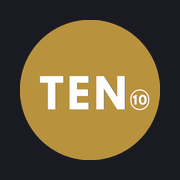
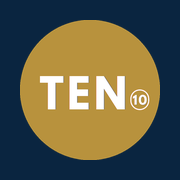
Reskin card to match tenconsultant.com brand (navy + champagne gold + ivory)
Aligns the digital card with the live website's brand system (方案 B):
- Palette: navy #0A2540 / champagne gold #D4AF37 / ivory #FAF8F3
- Fonts: Playfair Display (display) + Inter + Noto Serif TC
- Name now navy Playfair serif; role in gold
- Hero base + PWA icon background → navy
- Golden wave → champagne gold
- CTA → navy (was grey)
- Tagline → "Guarding Wealth. Nurturing Legacy." / 守護財富 · 傳承親情
- theme-color + manifest → navy

diff --git a/index.html b/index.html
@@ -7,7 +7,7 @@
 <meta name="description" content="Wealth Advisor · Legacy Planning · Insurance · Kuching, Sarawak">
 <!-- PWA -->
 <link rel="manifest" href="manifest.json">
-<meta name="theme-color" content="#1A1A22">
+<meta name="theme-color" content="#0A2540">
 <meta name="mobile-web-app-capable" content="yes">
 <!-- iOS -->
 <meta name="apple-mobile-web-app-capable" content="yes">
@@ -22,31 +22,37 @@
 <meta property="og:type" content="profile">
 <link rel="preconnect" href="https://fonts.googleapis.com">
 <link rel="preconnect" href="https://fonts.gstatic.com" crossorigin>
-<link href="https://fonts.googleapis.com/css2?family=Noto+Sans+TC:wght@300;400;500;600;700&family=Inter:wght@300;400;500;600;700&family=Cormorant+Garamond:wght@400;500;600;700&display=swap" rel="stylesheet">
+<link href="https://fonts.googleapis.com/css2?family=Noto+Serif+TC:wght@400;500;600;700;900&family=Inter:wght@300;400;500;600;700;800&family=Playfair+Display:wght@400;500;600;700;800;900&display=swap" rel="stylesheet">
 <style>
   * { margin: 0; padding: 0; box-sizing: border-box; -webkit-font-smoothing: antialiased; }
 
   :root {
-    --gold: #A88B3A;
-    --gold-dark: #8B7128;
-    --gold-light: #C9A84C;
-    --gold-soft: #F5F1E8;
-    --gold-paper: #FAF7EF;
+    /* 對齊 tenconsultant.com 官網品牌色板（方案 B）*/
+    --gold: #D4AF37;           /* 香檳金 */
+    --gold-dark: #A8862B;
+    --gold-light: #F0D57F;
+    --gold-soft: #F7EFD6;      /* 柔金 tint */
+    --gold-paper: #FBF5E4;     /* 金調紙 */
+    --navy: #0A2540;           /* 深藍主色 */
+    --navy-light: #1A3A5C;
+    --navy-dark: #061A2E;      /* hero 背景 */
+    --ivory: #FAF8F3;          /* 象牙白背景 */
+    --bone: #F5F3EE;
     --ten-red: #FF2B1E;
-    --ink: #1A1A22;
+    --ink: #1A1A1A;            /* charcoal 文字 */
     --ink-2: #36363F;
-    --ink-3: #6E6E7A;
-    --ink-4: #A8A8B0;
-    --charcoal: #4D4D54;       /* 田總指定 CTA 灰色 */
-    --charcoal-hover: #5A5A62;
-    --divider: #ECECF0;
+    --ink-3: #6B6B6B;
+    --ink-4: #9A9AA2;
+    --charcoal: #0A2540;       /* CTA 改用 navy（對齊官網 .btn-navy）*/
+    --charcoal-hover: #1A3A5C;
+    --divider: #E8E6E0;
     --paper: #FFFFFF;
   }
 
   html, body {
-    background: var(--paper);
+    background: var(--ivory);
     color: var(--ink);
-    font-family: 'Inter', 'Noto Sans TC', -apple-system, BlinkMacSystemFont, sans-serif;
+    font-family: 'Inter', 'Noto Serif TC', -apple-system, BlinkMacSystemFont, sans-serif;
     min-height: 100vh;
     overflow-x: hidden;
     line-height: 1.5;
@@ -72,7 +78,7 @@
     margin-bottom: 14px;
   }
   .demo-header h1 {
-    font-family: 'Cormorant Garamond', serif;
+    font-family: 'Playfair Display', serif;
     font-size: 44px;
     font-weight: 500;
     letter-spacing: -0.01em;
@@ -122,7 +128,7 @@
     right: 16px;
     z-index: 9999;
     display: flex;
-    background: rgba(26, 26, 34, 0.92);
+    background: rgba(10, 37, 64, 0.94);
     border-radius: 999px;
     padding: 4px;
     backdrop-filter: blur(10px);
@@ -228,7 +234,7 @@
   .photo-hero {
     width: 100%;
     height: 380px;
-    background: linear-gradient(135deg, #3D3D45 0%, #56565F 50%, #45454D 100%);
+    background: linear-gradient(135deg, var(--navy-dark) 0%, var(--navy) 55%, var(--navy-light) 100%);
     position: relative;
     overflow: hidden;
   }
@@ -316,23 +322,24 @@
     padding: 18px 24px 18px;
   }
   .person-name {
-    font-family: 'Inter', sans-serif;
-    font-size: 26px;
-    font-weight: 500;
-    color: var(--gold-dark);
+    font-family: 'Playfair Display', serif;
+    font-size: 30px;
+    font-weight: 700;
+    color: var(--navy);
     letter-spacing: -0.01em;
     margin-bottom: 6px;
-    line-height: 1.2;
+    line-height: 1.15;
   }
   .person-role {
-    font-size: 15px;
-    color: var(--gold-dark);
-    font-weight: 400;
-    margin-bottom: 2px;
-  }
-  .person-affiliation {
     font-size: 14px;
     color: var(--gold-dark);
+    font-weight: 600;
+    letter-spacing: 0.04em;
+    margin-bottom: 3px;
+  }
+  .person-affiliation {
+    font-size: 13px;
+    color: var(--ink-3);
     font-weight: 400;
   }
 
@@ -356,7 +363,7 @@
   .about-text .quote {
     display: block;
     margin-top: 12px;
-    font-family: 'Cormorant Garamond', serif;
+    font-family: 'Playfair Display', serif;
     font-size: 17px;
     font-style: italic;
     color: var(--gold-dark);
@@ -723,7 +730,7 @@
     color: var(--ink);
     font-style: italic;
     margin-top: 12px;
-    font-family: 'Cormorant Garamond', serif;
+    font-family: 'Playfair Display', serif;
     font-weight: 600;
   }
 
@@ -900,7 +907,7 @@
 
               <!-- Golden wave -->
               <svg class="golden-wave" viewBox="0 0 390 80" preserveAspectRatio="none">
-                <path d="M0,55 Q97,15 195,40 T390,30 L390,80 L0,80 Z" fill="#A88B3A"/>
+                <path d="M0,55 Q97,15 195,40 T390,30 L390,80 L0,80 Z" fill="#D4AF37"/>
                 <path d="M0,60 Q97,25 195,48 T390,38 L390,80 L0,80 Z" fill="#ffffff"/>
               </svg>
 
@@ -924,7 +931,7 @@
             <div class="about-section">
               <div class="about-text">
                 <span data-i18n="about">Experienced wealth strategist and legacy planner — protecting families across Malaysia.</span>
-                <span class="quote" data-i18n="quote">"Protect. Preserve. Pass On."</span>
+                <span class="quote" data-i18n="quote">"Guarding Wealth. Nurturing Legacy."</span>
               </div>
             </div>
 
@@ -1222,7 +1229,7 @@
       role: "General Manager",
       affiliation: "Wealth & Legacy Planning · TEN Consultancy",
       about: "Experienced wealth strategist and legacy planner — protecting families across Malaysia.",
-      quote: '"Protect. Preserve. Pass On."',
+      quote: '"Guarding Wealth. Nurturing Legacy."',
       lbl_mobile: "Mobile · Tap to Call",
       lbl_wa: "WhatsApp",
       lbl_email: "Email",
@@ -1260,7 +1267,7 @@
       role: "總經理",
       affiliation: "財富與傳承規劃 · TEN Consultancy",
       about: "資深財富策略與遺產規劃師 — 守護全馬家庭的傳承之路。",
-      quote: "「守護 · 傳承 · 延續」",
+      quote: "「守護財富 · 傳承親情」",
       lbl_mobile: "手機 · 點擊撥打",
       lbl_wa: "WhatsApp 對話",
       lbl_email: "電郵",
